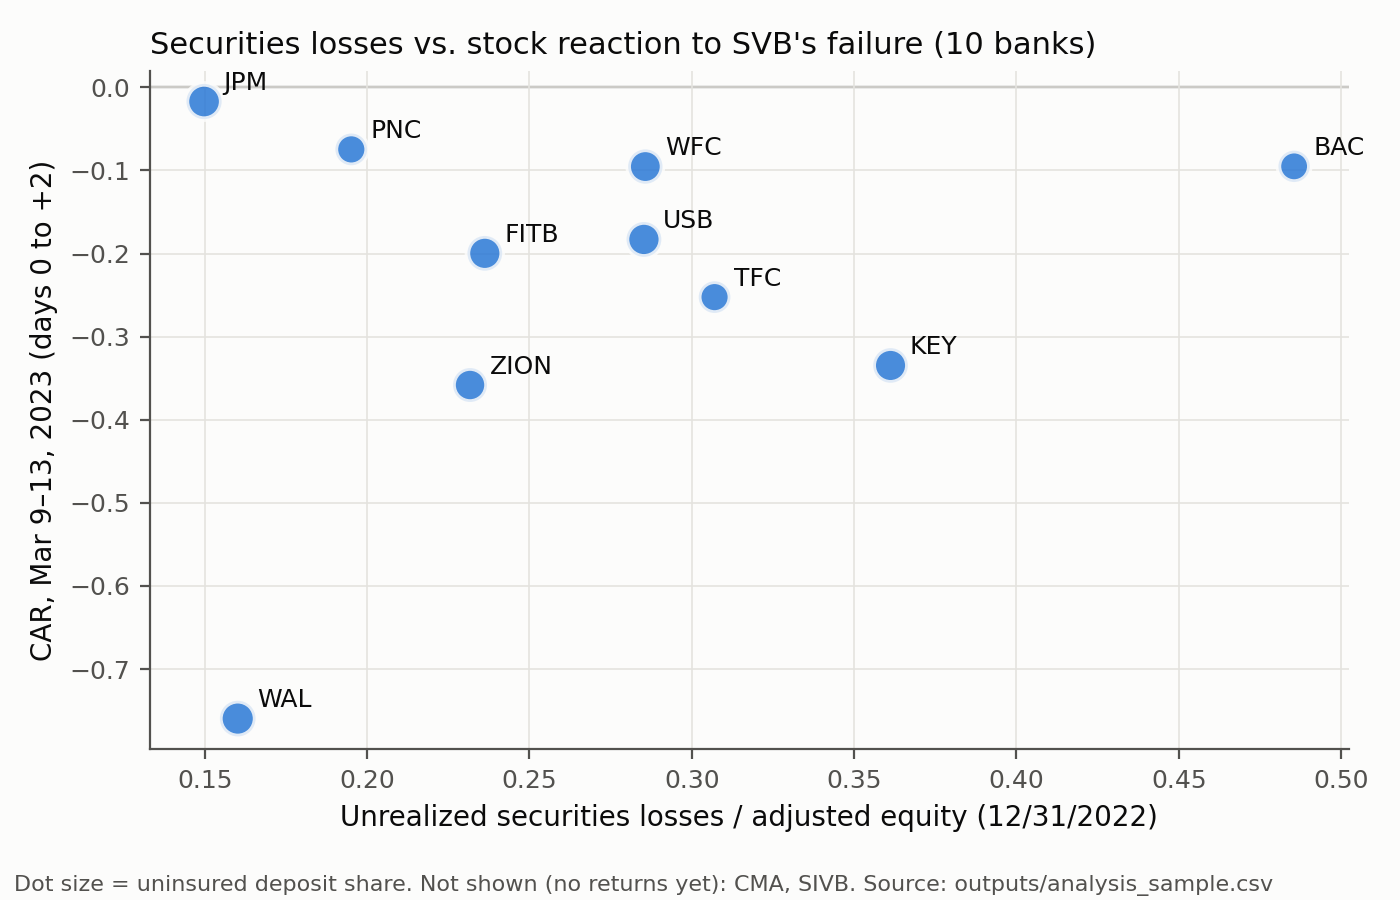
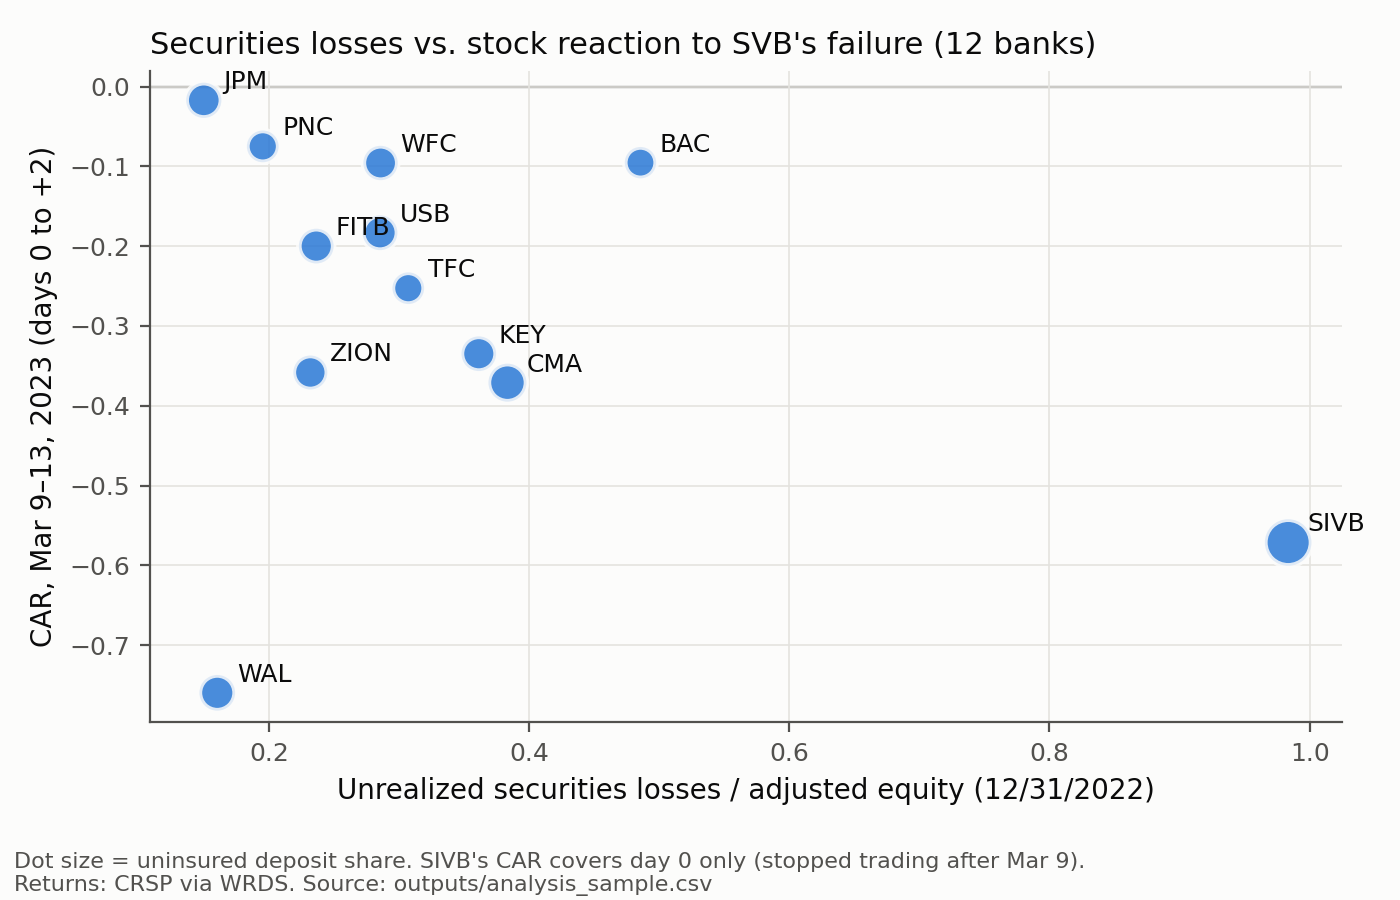
Section 2: rebuild car_0_2 from CRSP for all 12 banks; rerun merge and regression (N=12)
- car_0_2.csv: 12 banks, source = CRSP, SIVB day 0 only (noted in output, README, chart)
- 05: assert every bank has a CAR; 06: assert 12 rows and 12 banks used
- specs_tried.md: new 12-bank entry (#3, #4); 10-bank run (#1) kept

diff --git a/code/06_regression.py b/code/06_regression.py
@@ -11,7 +11,7 @@ Output: outputs/regression_main.csv              coefficients, robust SEs, p-val
         outputs/regression_main.txt              full statsmodels summary
         outputs/figures/scatter_loss_vs_car.png  unreal_loss_to_adj_equity vs car_0_2
 
-v0 caveat: with 10-12 banks and 4 coefficients, this is a pipeline check, not evidence.
+v0 caveat: with 12 banks and 4 coefficients, this is a pipeline check, not evidence.
 Every spec run must be logged in specs_tried.md.
 """
 
@@ -27,10 +27,13 @@ ROOT = Path(__file__).resolve().parents[1]
 OUT = ROOT / "outputs"
 sample = pd.read_csv(OUT / "analysis_sample.csv")
 
-# 1. Regression on the banks that have every variable (rows missing car_0_2 drop out).
+# 1. Regression on the banks that have every variable. All 12 v0 banks must be
+#    used: stop if any bank drops out for a missing value.
 formula = "car_0_2 ~ uninsured_dep_share + unreal_loss_to_adj_equity + log_total_assets"
 used = sample.dropna(subset=["car_0_2", "uninsured_dep_share", "unreal_loss_to_adj_equity", "log_total_assets"])
+assert len(sample) == 12 and len(used) == 12, f"only {len(used)} of {len(sample)} banks usable"
 fit = smf.ols(formula, data=used).fit(cov_type="HC1")
+assert int(fit.nobs) == 12
 
 # 2. Save a tidy coefficient table and the full summary (both feed the dashboard and report).
 table = pd.DataFrame({"term": fit.params.index, "coef": fit.params.values,
@@ -64,12 +67,11 @@ ax.tick_params(colors=MUTED, labelsize=9)
 ax.set_xlabel("Unrealized securities losses / adjusted equity (12/31/2022)", color=INK, fontsize=10)
 ax.set_ylabel("CAR, Mar 9–13, 2023 (days 0 to +2)", color=INK, fontsize=10)
 
-missing = ", ".join(sample.loc[sample["car_0_2"].isna(), "ticker"]) or "none"
 ax.set_title(f"Securities losses vs. stock reaction to SVB's failure ({len(used)} banks)",
              color=INK, fontsize=11, loc="left")
-fig.text(0.01, 0.01, f"Dot size = uninsured deposit share. Not shown (no returns yet): {missing}. "
-         "Source: outputs/analysis_sample.csv", color=MUTED, fontsize=8)
-fig.tight_layout(rect=(0, 0.04, 1, 1))
+fig.text(0.01, 0.01, "Dot size = uninsured deposit share. SIVB's CAR covers day 0 only (stopped trading after Mar 9).\n"
+         "Returns: CRSP via WRDS. Source: outputs/analysis_sample.csv", color=MUTED, fontsize=8)
+fig.tight_layout(rect=(0, 0.07, 1, 1))
 fig.savefig(OUT / "figures" / "scatter_loss_vs_car.png", dpi=200)
 
 print(f"Regression on {int(fit.nobs)} banks (HC1 robust SEs):")

diff --git a/code/05_build_analysis_sample.py b/code/05_build_analysis_sample.py
@@ -30,8 +30,8 @@ sample = bhcs.merge(measures, on="bhc_rssd", how="left", validate="1:1", suffixe
 assert (sample["ticker"] == sample["ticker_measures"]).all()
 sample = sample.drop(columns=["ticker_measures"])
 
-# 3. Add the event-study results by ticker. Every ticker has a row in car_0_2.csv,
-#    even when its CAR is missing (delisted banks waiting on CRSP).
+# 3. Add the event-study results by ticker. All 12 come from CRSP and every one
+#    must have a CAR (SIVB's covers day 0 only; see its note).
 car = pd.read_csv(OUT / "car_0_2.csv")
 car = car.rename(columns={"note": "car_note", "source": "return_source"})
 sample = sample.merge(car, on="ticker", how="left", validate="1:1")
@@ -39,9 +39,11 @@ sample = sample.merge(car, on="ticker", how="left", validate="1:1")
 # 4. Log of total assets, the size control in the regression ($ thousands as reported).
 sample["log_total_assets"] = np.log(sample["total_assets"])
 
-# 5. Checks required by the team: exactly 12 rows, one per holding company.
+# 5. Checks required by the team: exactly 12 rows, one per holding company,
+#    and every bank has a CAR.
 assert len(sample) == 12
 assert sample["bhc_rssd"].is_unique
+assert sample["car_0_2"].notna().all(), sample.loc[sample["car_0_2"].isna(), "ticker"].tolist()
 
 sample = sample.sort_values("ticker").reset_index(drop=True)
 sample.to_csv(OUT / "analysis_sample.csv", index=False)

diff --git a/specs_tried.md b/specs_tried.md
@@ -6,4 +6,6 @@ Add the date and your name. The output file is where the numbers live (always in
 | # | Date | Who | Dependent variable | Regressors | Sample | Std. errors | Output file | Result / why kept or dropped |
 |---|---|---|---|---|---|---|---|---|
 | 1 | 2026-11-07 | Mithran (Claude Code) | `car_0_2` | `uninsured_dep_share`, `unreal_loss_to_adj_equity`, `log_total_assets` | v0, 10 of 12 banks (SIVB, CMA missing returns until CRSP arrives) | HC1 robust | `outputs/regression_main.csv`, `outputs/regression_main.txt` | Pipeline check only (N=10, 4 coefficients). Loss ratio coef −0.23 (p=0.53), uninsured share −0.97 (p=0.27), log assets +0.13 (p<0.01), R² 0.72. Kept as main spec; re-run when CRSP returns are added. |
-| 2 | 2026-11-07 | Mithran (Claude Code) | `car_0_2` (chart) | x = `unreal_loss_to_adj_equity`, dot size = `uninsured_dep_share` | same 10 banks | n/a | `outputs/figures/scatter_loss_vs_car.png` | Headline scatter. Kept. |
+| 2 | 2026-11-07 | Mithran (Claude Code) | `car_0_2` (chart) | x = `unreal_loss_to_adj_equity`, dot size = `uninsured_dep_share` | same 10 banks | n/a | `outputs/figures/scatter_loss_vs_car.png` | Headline scatter. Superseded by #4. |
+| 3 | 2026-11-09 | Mithran (Claude Code) | `car_0_2` | `uninsured_dep_share`, `unreal_loss_to_adj_equity`, `log_total_assets` | v0, all 12 banks; returns from CRSP via WRDS (matched by PERMNO); SIVB's CAR covers day 0 only | HC1 robust | `outputs/regression_main.csv`, `outputs/regression_main.txt` | Same spec as #1, now N=12. Loss ratio coef −0.05 (p=0.87), uninsured share −0.44 (p=0.23), log assets +0.12 (p<0.01), R² 0.73. Kept as main spec. Pipeline check only: 12 banks, 4 coefficients. #1 (10 banks, yfinance) is kept above for comparison; its output files were overwritten by this run. |
+| 4 | 2026-11-09 | Mithran (Claude Code) | `car_0_2` (chart) | x = `unreal_loss_to_adj_equity`, dot size = `uninsured_dep_share` | same 12 banks as #3 | n/a | `outputs/figures/scatter_loss_vs_car.png` | Headline scatter with SIVB and CMA added. Kept. |

diff --git a/README.md b/README.md
@@ -103,7 +103,7 @@ python dev/check_fake_bhc_measures.py   # compares to hand-computed answers
 - **Survivorship:** the most fragile banks (SIVB, SBNY, FRC, PACW) failed or merged. yfinance has **no** data for SIVB or CMA (Comerica, acquired by Fifth Third), so their returns must come from CRSP (`inputs/prices/crsp/README.md`).
 - **Mixed return sources:** 10 banks use Yahoo adjusted closes, delisted banks use CRSP `RET`. Both include dividends; small differences are possible.
 - **CAR is a sum of simple daily abnormal returns.** For very large moves (WAL fell about 64% over the window) the sum is more negative than the compounded loss; a buy-and-hold abnormal return is a possible robustness check.
-- **SIVB stopped trading on Mar 10, 2023**, so its `car_0_2` covers only day 0 (Mar 9). It is not comparable to the other banks' three-day CARs.
+- **SIVB stopped trading after Mar 9, 2023** (halted Mar 10, then seized), so its `car_0_2` covers only day 0 (Mar 9). CRSP lists a Mar 10 return for SIVB, but it is a bid/ask quote with no trade (negative price), so `code/04_event_study.py` drops it, along with any other no-trade day. SIVB's CAR is not comparable to the other banks' three-day CARs; the `note` column in `outputs/car_0_2.csv` flags it.
 - **Entity mismatch:** the stock belongs to the holding company, but call reports are filed by the bank subsidiaries. We sum subsidiaries to the holding company using the link table.
 - **RSSD → ticker link quality:** we will report the match rate and hand-check a sample.
 - **Uninsured deposits (RCON5597)** are reported only by banks with at least $1B in assets.
